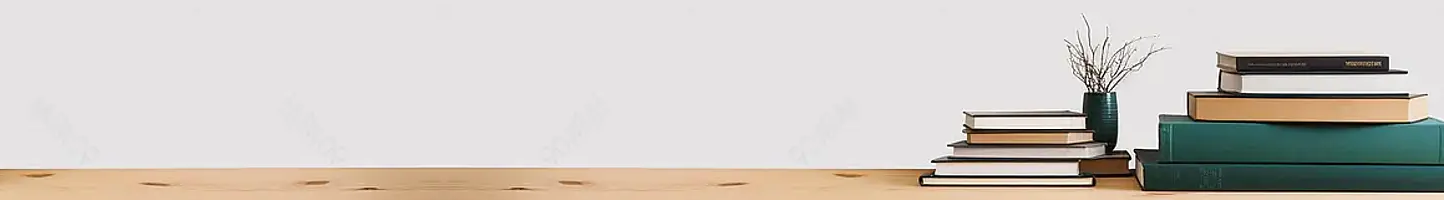
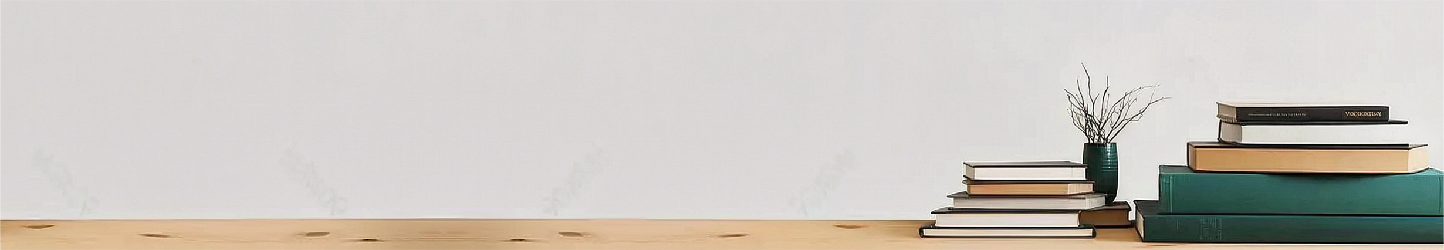
style: 增加横幅图片对暗色主题的支持

Changed region(s): [[0.0, 0.12, 1.0, 0.99]]

diff --git a/src/views/ProfileView.vue b/src/views/ProfileView.vue
@@ -15,7 +15,7 @@ const navItems = [
   <main class="flex-1">
     <!-- 横幅（仅宽屏） -->
     <div class="hidden mx-auto max-w-6xl sm:flex mb-4 md:mb-8 px-4 md:px-8">
-      <img src="/banner.png" class="w-full h-full rounded-b-lg" alt="横幅"/>
+      <div class="w-full h-62 rounded-b-lg bg-[url('/banner.png')] dark:bg-[url('/banner-dark.png')] bg-center"></div>
     </div>
 
     <!-- 主区域 -->
